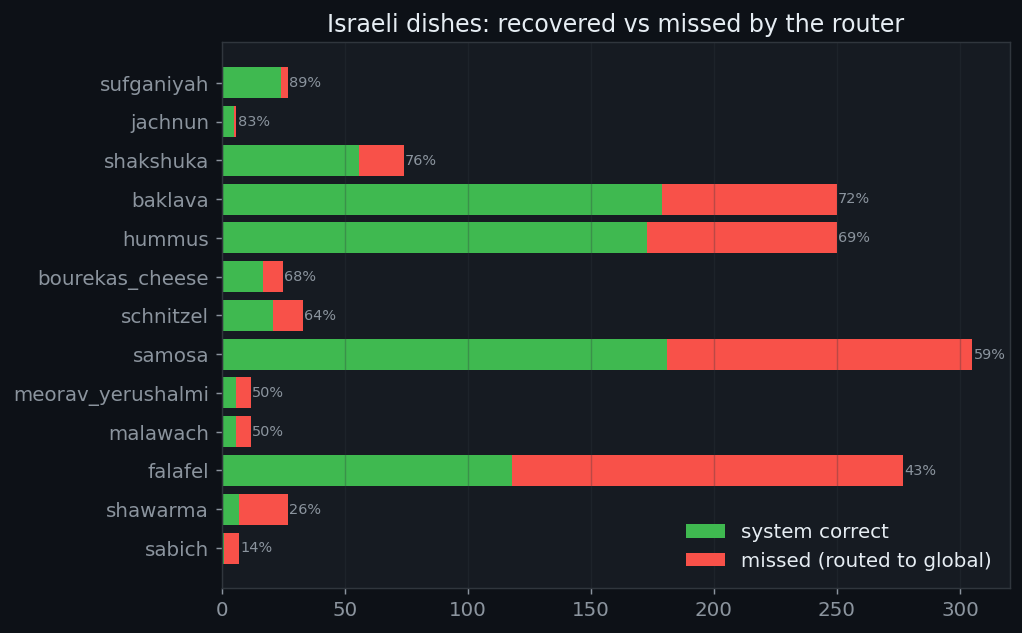
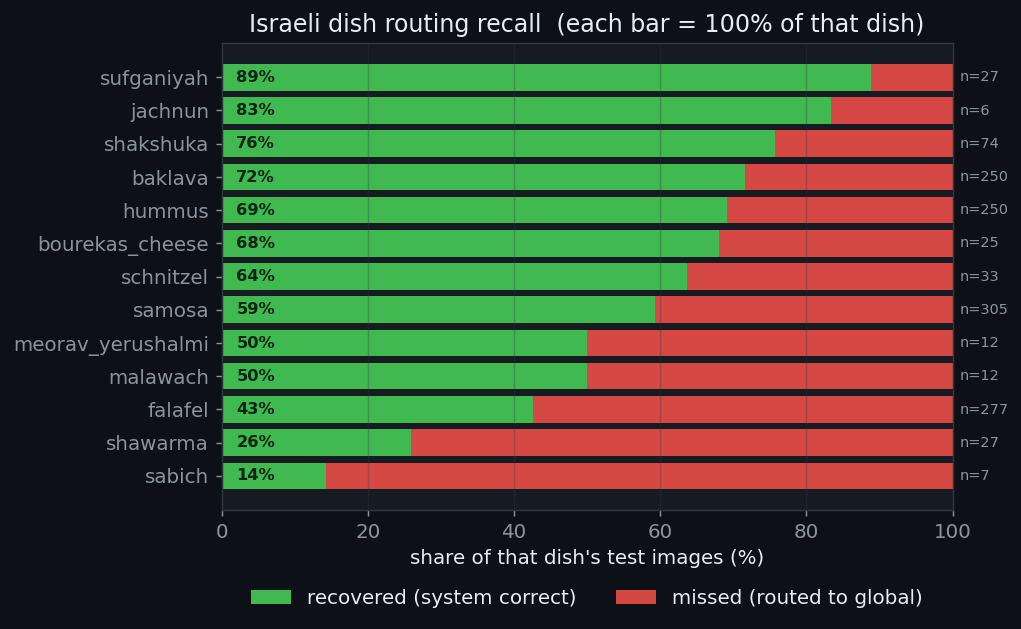
Fix Israeli dish chart: normalize to 100% so bar length matches recall %

diff --git a/CALEYEZ.html b/CALEYEZ.html
@@ -323,7 +323,8 @@ winner   (global / israeli / none)</pre>
 
     <h3>7.4 Israeli dish routing — recovered vs missed</h3>
     <img class="fig" src="assets/sys_4_israeli.png" alt="Israeli dish recovery">
-    <figcaption>Per-dish: green = correctly recovered by the router, red = missed (sent to global).</figcaption>
+    <figcaption>Each bar = 100% of that dish's test images: green = % recovered (system
+      correct), red = % missed (routed to global). <code>n</code> = test images for that dish.</figcaption>
     <p>The router handles most Israeli dishes well (sufganiyah 89%, jachnun 83%, shakshuka
       76%, baklava 72%, hummus 69%) but struggles on dishes that strongly resemble global foods:
       <b>sabich 14%</b>, <b>shawarma 26%</b>, <b>falafel 43%</b>. These are the dishes whose

diff --git a/scripts/arbiter/system_analysis.py b/scripts/arbiter/system_analysis.py
@@ -98,19 +98,23 @@ for i,n in enumerate(counts): ax.text(n+0.3,i,str(n),va="center",color=INK,fonts
 ax.set_title("Top system confusions  (true → predicted, test errors)"); ax.grid(axis="x",alpha=.3)
 save(fig,"sys_3_confusions.png")
 
-# ===== FIG 4: Israeli dishes routed correct vs missed =====
+# ===== FIG 4: Israeli dishes routed correct vs missed (NORMALIZED to 100%) =====
 isr=df[df.domain=="israeli"]
 dishes=sorted(isr.true_class.unique())
-corr=[((isr.true_class==d)&fc).sum() for d in dishes]
-miss=[((isr.true_class==d)&(~fc)).sum() for d in dishes]
-order=np.argsort([c/(c+m) if (c+m) else 0 for c,m in zip(corr,miss)])
-dishes=[dishes[i] for i in order]; corr=[corr[i] for i in order]; miss=[miss[i] for i in order]
+corr=np.array([((isr.true_class==d)&fc).sum() for d in dishes])
+miss=np.array([((isr.true_class==d)&(~fc)).sum() for d in dishes])
+tot=corr+miss; recall=np.where(tot>0, corr/tot*100, 0)
+order=np.argsort(recall)                 # worst at bottom
+dishes=[dishes[i] for i in order]; recall=recall[order]; tot=tot[order]
 fig,ax=plt.subplots(figsize=(8,5))
-ax.barh(dishes,corr,color=GREEN,label="system correct")
-ax.barh(dishes,miss,left=corr,color=RED,label="missed (routed to global)")
-for i,(c,m) in enumerate(zip(corr,miss)):
-    tot=c+m; ax.text(tot+0.5,i,f"{c/tot*100:.0f}%" if tot else "",va="center",color=MUT,fontsize=8)
-ax.set_title("Israeli dishes: recovered vs missed by the router"); ax.legend(frameon=False,labelcolor=INK,loc="lower right")
+ax.barh(dishes,recall,color=GREEN,label="recovered (system correct)")
+ax.barh(dishes,100-recall,left=recall,color=RED,alpha=.85,label="missed (routed to global)")
+for i,(r,n) in enumerate(zip(recall,tot)):
+    ax.text(2,i,f"{r:.0f}%",va="center",ha="left",color="#06240f",fontsize=9,fontweight="bold")
+    ax.text(101,i,f"n={n}",va="center",color=MUT,fontsize=8)
+ax.set_xlim(0,100); ax.set_xlabel("share of that dish's test images (%)")
+ax.set_title("Israeli dish routing recall  (each bar = 100% of that dish)")
+ax.legend(frameon=False,labelcolor=INK,loc="upper center",bbox_to_anchor=(0.5,-0.13),ncol=2)
 ax.grid(axis="x",alpha=.3)
 save(fig,"sys_4_israeli.png")
 
